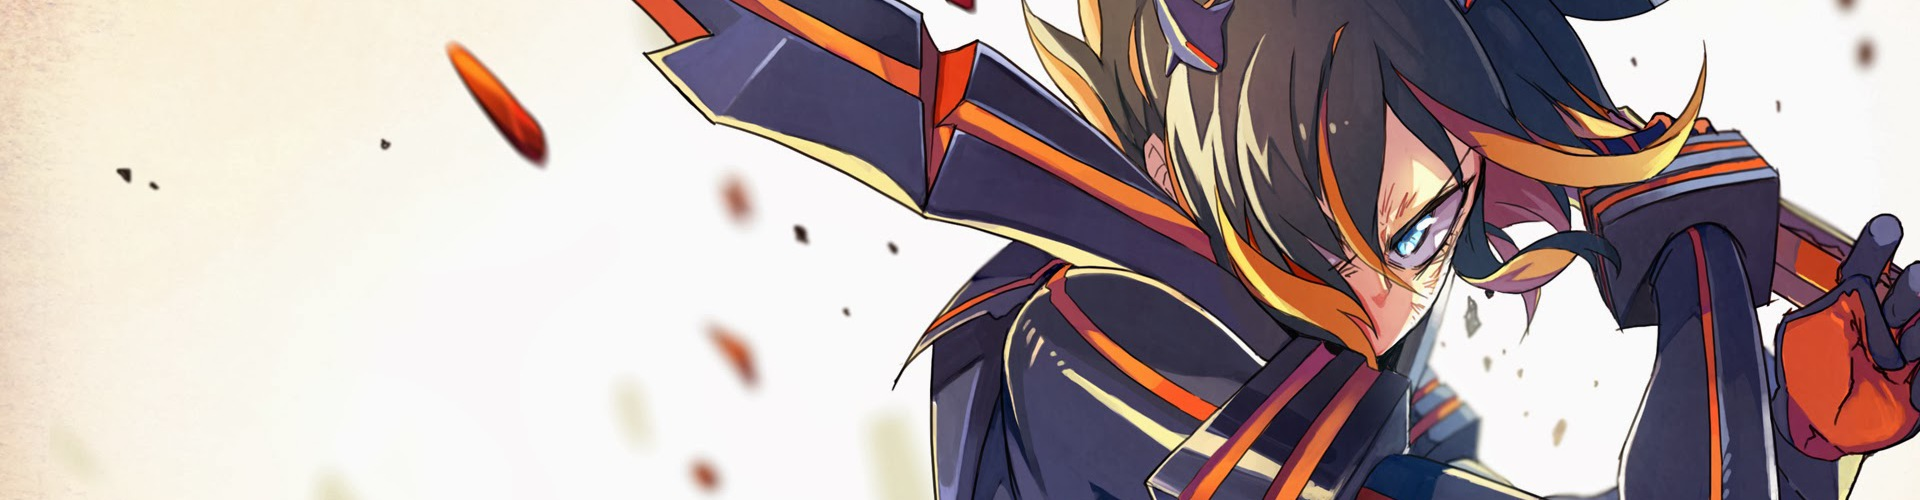
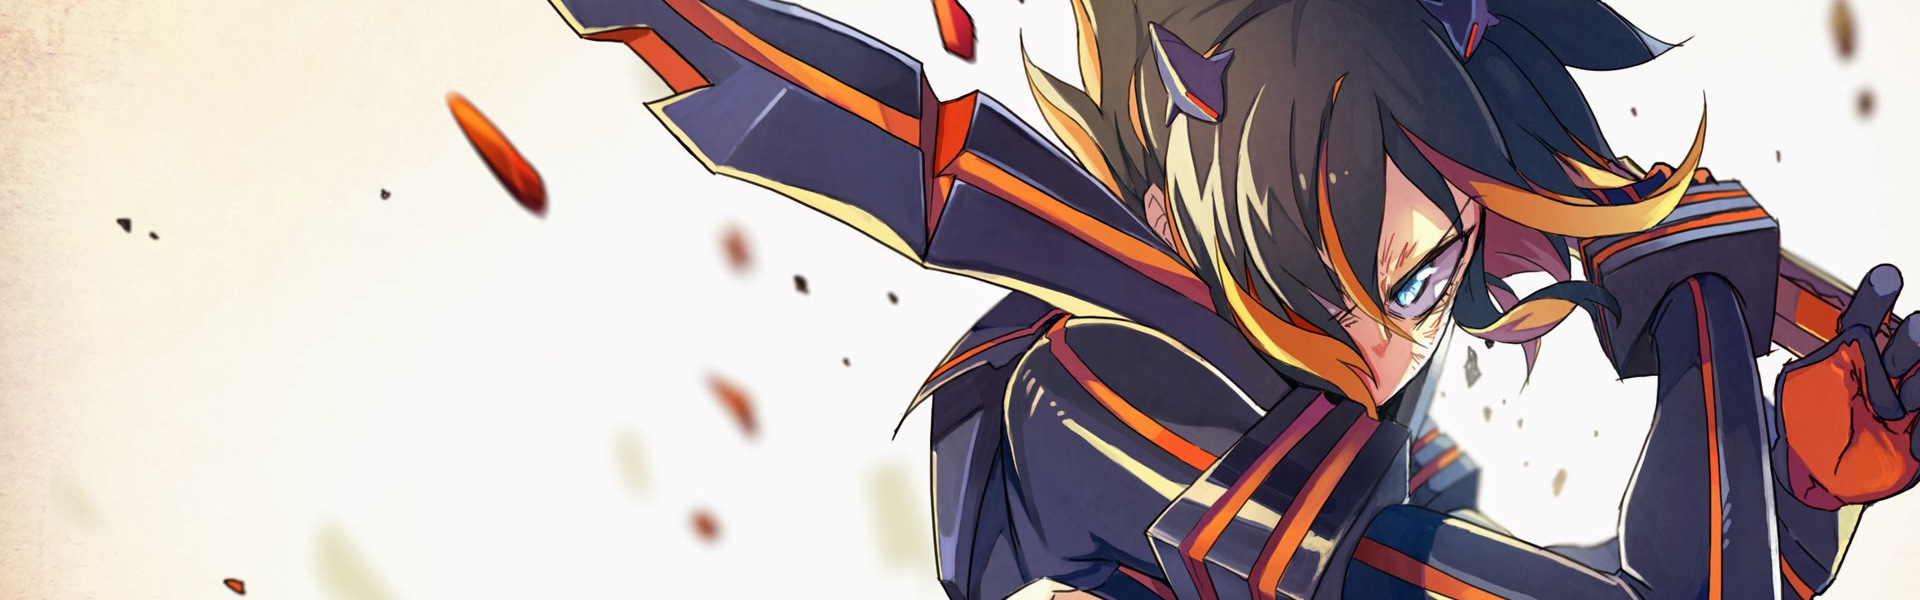
Added Zurb Foundation interchange to header_image

diff --git a/app/assets/stylesheets/_animes.scss b/app/assets/stylesheets/_animes.scss
@@ -14,18 +14,24 @@
       left: 90px;
     }
     @media screen and (min-width: 40em) and (max-width: 63.9375em) {
-      top: -150px;
+      top: -200px;
     }
   }
   .anime-name {
     h1 {
       top: -200px;
       position: relative;
-      background-color: #1b2023;
       @media screen and (max-width: 39.9375em) {
         text-align: center;
         background-color: transparent;
         top: 10px
+
+      }
+      @media screen and (min-width: 40em) and (max-width: 63.9375em) {
+        top: -130px;
+        background-color: gray;
+        font-size: 1.9em;
+        text-align: center;
 
       }
     }

diff --git a/app/models/anime.rb b/app/models/anime.rb
@@ -42,6 +42,6 @@
   has_attached_file :cover_image, styles: { large: "200x288#", medium: "162x230>", thumb: "100x100>" }, default_url: "/images/:style/missing.png"
   validates_attachment_content_type :cover_image, content_type: /\Aimage\/.*\Z/
 
-  has_attached_file :header_image, styles: { large: "1920x500#" }, default_url: "/images/:style/missing.png"
+  has_attached_file :header_image, styles: { large: "1920x600#", medium: "1920x800#" }, default_url: "/images/:style/missing.png"
   validates_attachment_content_type :header_image, content_type: /\Aimage\/.*\Z/
 end
